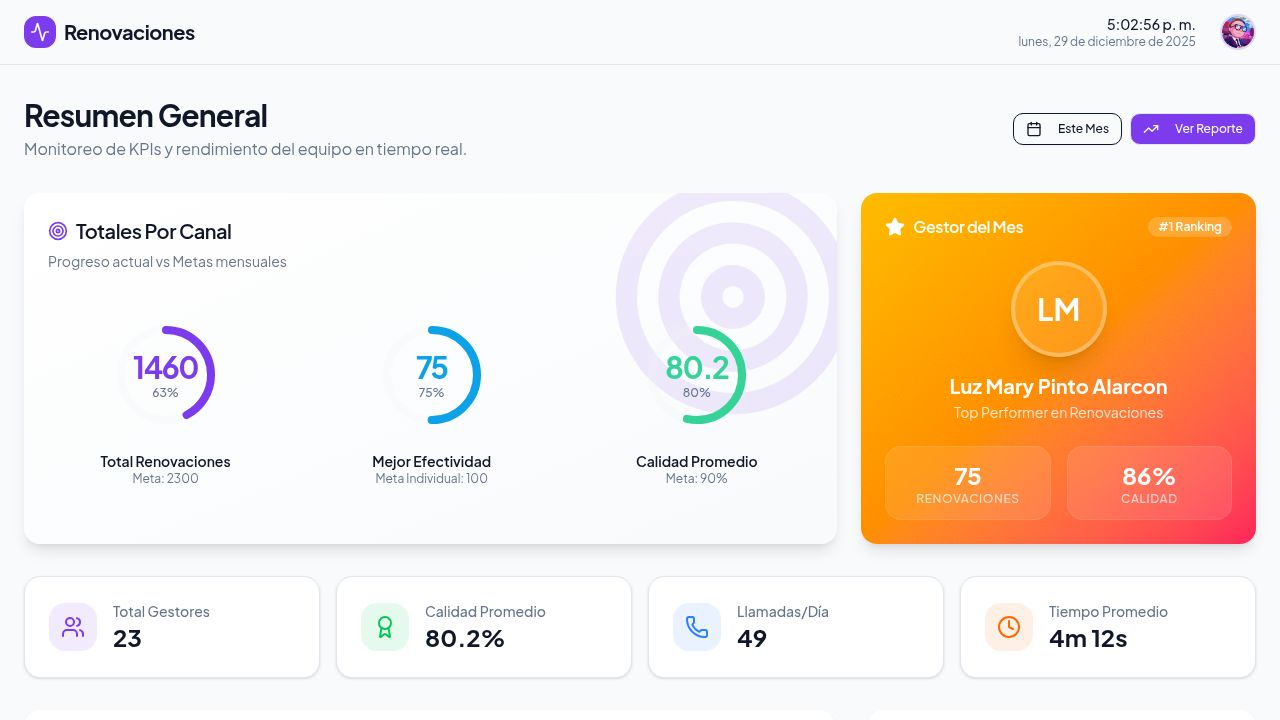
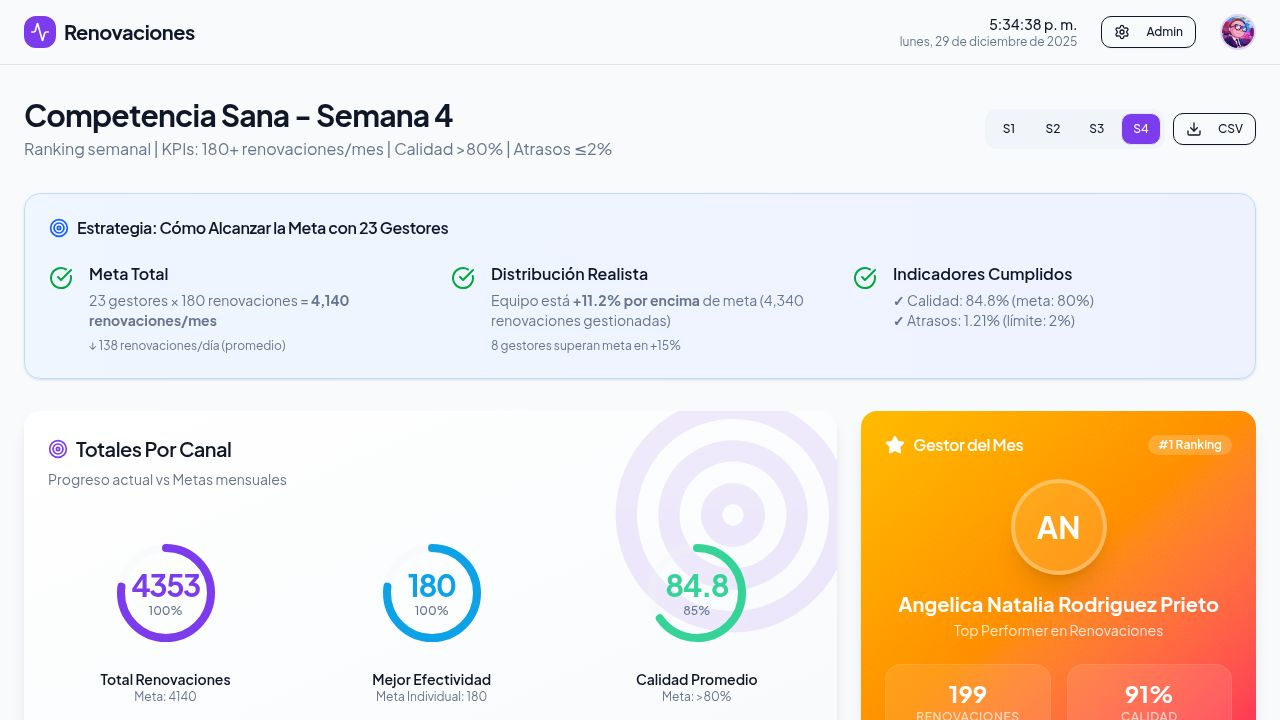
Show weekly and monthly top performers based on selected week
Update dashboard to display the top performer of the week for weeks 1-3, and both the top performer of week 4 and the top performer of the month (average of all 4 weeks) when week 4 is selected.

Replit-Commit-Author: Agent
Replit-Commit-Session-Id: 0e50c2de-4380-403d-8c33-0d681f946db6
Replit-Commit-Checkpoint-Type: full_checkpoint
Replit-Commit-Event-Id: 09a3fbaa-4c14-4b82-9f8f-866f25a88042
Replit-Commit-Screenshot-Url: https://storage.googleapis.com/screenshot-production-us-central1/6b09c919-1f5d-459b-ae85-46af0e240f49/0e50c2de-4380-403d-8c33-0d681f946db6/pY3Cbic
Replit-Helium-Checkpoint-Created: true

diff --git a/client/src/pages/dashboard.tsx b/client/src/pages/dashboard.tsx
@@ -494,14 +494,12 @@ export default function Dashboard() {
 
           {/* Side Widgets */}
           <div className="space-y-6">
-            {/* Gestor de la Semana / Gestor del Mes */}
-            <Card className={`border-0 shadow-lg ${currentWeek === 4 ? 'bg-gradient-to-br from-purple-50 to-indigo-50' : 'bg-gradient-to-br from-amber-50 to-yellow-50'}`}>
+            {/* Gestor de la Semana */}
+            <Card className="border-0 shadow-lg bg-gradient-to-br from-amber-50 to-yellow-50">
               <CardContent className="p-6">
                 <div className="text-center">
-                  <div className="text-5xl mb-3">🏆</div>
-                  <h3 className="font-bold text-lg mb-1">
-                    {currentWeek === 4 ? '🌟 Gestor del Mes' : `⭐ Gestor de la Semana S${currentWeek}`}
-                  </h3>
+                  <div className="text-5xl mb-3">⭐</div>
+                  <h3 className="font-bold text-lg mb-1">Gestor de la Semana S{currentWeek}</h3>
                   <p className="text-2xl font-bold text-primary mb-2">{mejorRenovaciones.nombre}</p>
                   <div className="bg-white/60 rounded-lg p-3 space-y-1">
                     <p className="text-sm text-muted-foreground">Renovaciones</p>
@@ -511,6 +509,24 @@ export default function Dashboard() {
                 </div>
               </CardContent>
             </Card>
+
+            {/* Gestor del Mes - Solo aparece en S4 */}
+            {currentWeek === 4 && (
+              <Card className="border-0 shadow-lg bg-gradient-to-br from-purple-50 to-indigo-50">
+                <CardContent className="p-6">
+                  <div className="text-center">
+                    <div className="text-5xl mb-3">🌟</div>
+                    <h3 className="font-bold text-lg mb-1">Gestor del Mes</h3>
+                    <p className="text-2xl font-bold text-primary mb-2">{getMonthlyTopGestor().nombre}</p>
+                    <div className="bg-white/60 rounded-lg p-3 space-y-1">
+                      <p className="text-sm text-muted-foreground">Renovaciones (Promedio)</p>
+                      <p className="text-3xl font-bold">{getMonthlyTopGestor().renovaciones}</p>
+                      <p className="text-xs text-green-600 font-semibold">+{Math.round((getMonthlyTopGestor().renovaciones / 180 - 1) * 100)}% vs Meta</p>
+                    </div>
+                  </div>
+                </CardContent>
+              </Card>
+            )}
 
             <Card className="border-none shadow-md">
               <CardHeader>
